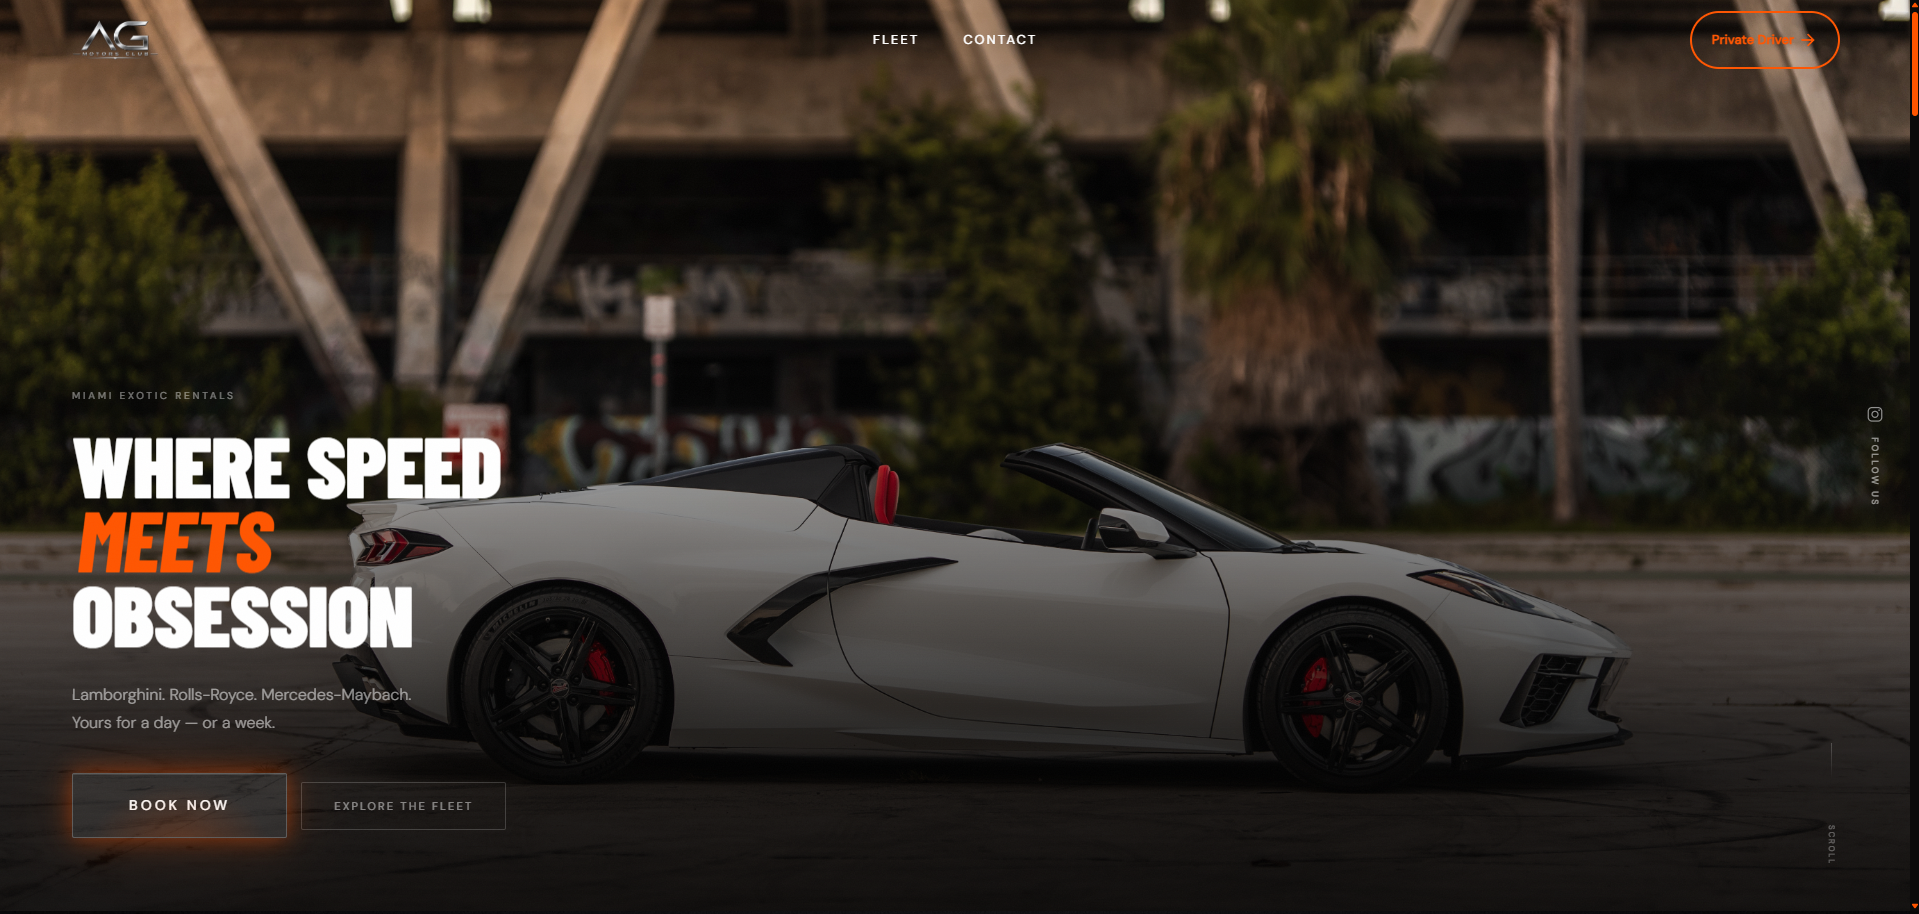
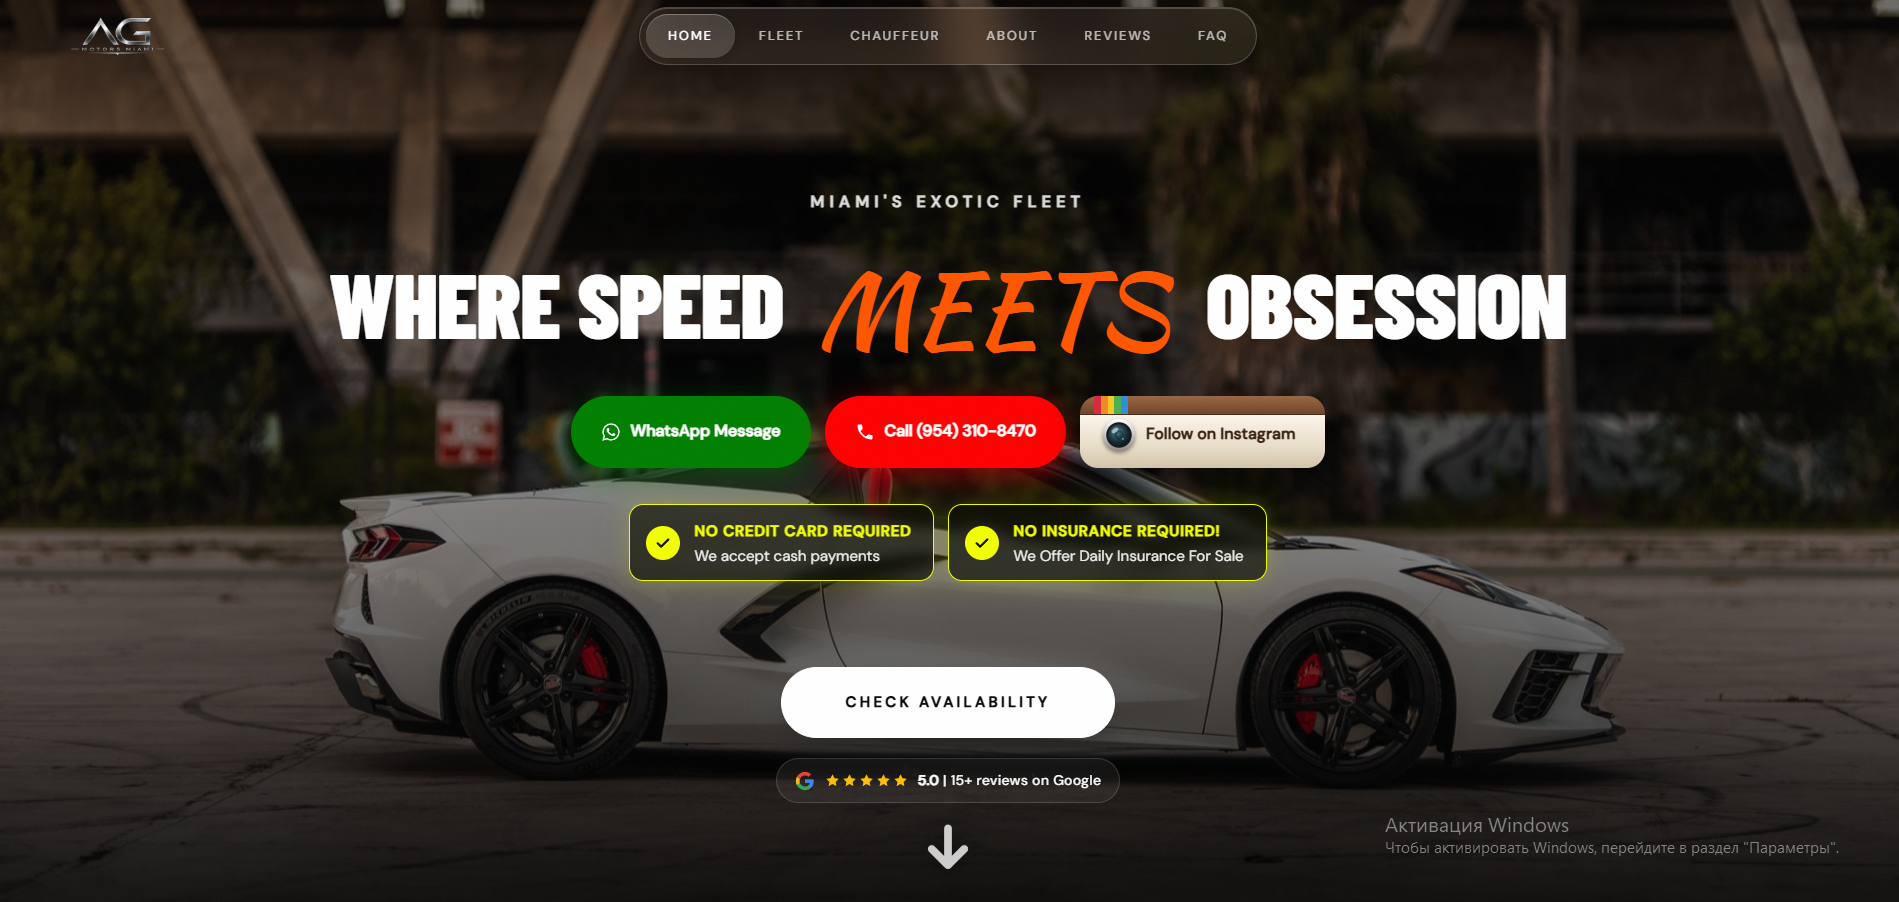
Project pages: iPad mockups with 3D shadow, standout visit-site button
Screenshots now sit in an iPad frame (img/projects/*-ipad.png) instead of a
cropped 4:3 browser window, so nothing gets cut off. The "See the Site Live"
button is a glowing gradient pill with a periodic shine and arrow badge,
full-width on mobile.

diff --git a/css/style.css b/css/style.css
@@ -925,8 +925,61 @@ h2 {
 .case-title { font-size: clamp(32px, 5.5vw, 56px); margin-bottom: 22px; }
 .case-desc  { font-size: 16px; color: var(--gray-text); line-height: 1.75; max-width: 520px; margin-bottom: 32px; }
 
-.case-cta { margin-bottom: 40px; }
-.case-cta svg { margin-left: 10px; }
+.case-cta {
+  position: relative; overflow: hidden; isolation: isolate;
+  display: inline-flex; align-items: center; gap: 14px;
+  margin-bottom: 40px; padding: 8px 8px 8px 24px;
+  border-radius: 100px;
+  font-family: 'Orbitron', 'Manrope', -apple-system, BlinkMacSystemFont, sans-serif;
+  font-size: 15px; font-weight: 700; text-transform: uppercase; letter-spacing: .05em;
+  color: #fff; text-decoration: none;
+  background: linear-gradient(135deg, #3b8ff5 0%, var(--blue) 45%, #0f4fb0 100%);
+  box-shadow:
+    0 0 0 1px rgba(255,255,255,.18) inset,
+    0 12px 32px -6px var(--blue-glow),
+    0 4px 12px rgba(29,121,233,.25);
+  animation: ctaPulse 2.6s ease-in-out infinite;
+  transition: transform var(--trans), box-shadow var(--trans);
+}
+/* Light sweep that runs across the button every few seconds */
+.case-cta::before {
+  content: ''; position: absolute; inset: 0; z-index: -1;
+  background: linear-gradient(110deg, transparent 30%, rgba(255,255,255,.35) 50%, transparent 70%);
+  transform: translateX(-120%);
+  animation: ctaShine 3.2s ease-in-out infinite;
+}
+.case-cta:hover {
+  animation: none;
+  transform: translateY(-3px);
+  box-shadow:
+    0 0 0 1px rgba(255,255,255,.25) inset,
+    0 18px 44px -6px rgba(29,121,233,.6),
+    0 6px 16px rgba(29,121,233,.3);
+}
+.case-cta:active { transform: translateY(-1px); }
+.case-cta:focus-visible { outline: 2px solid var(--blue); outline-offset: 4px; }
+
+.case-cta-icon {
+  flex-shrink: 0; width: 42px; height: 42px; border-radius: 50%;
+  display: flex; align-items: center; justify-content: center;
+  background: #fff; color: var(--blue);
+  transition: transform var(--trans);
+}
+.case-cta-icon svg { transition: transform var(--trans); }
+.case-cta:hover .case-cta-icon { transform: scale(1.06); }
+.case-cta:hover .case-cta-icon svg { transform: translate(2px, -2px); }
+
+@keyframes ctaPulse {
+  0%, 100% { box-shadow: 0 0 0 1px rgba(255,255,255,.18) inset, 0 12px 32px -6px var(--blue-glow), 0 0 0 0 rgba(29,121,233,.45); }
+  50%      { box-shadow: 0 0 0 1px rgba(255,255,255,.18) inset, 0 12px 32px -6px var(--blue-glow), 0 0 0 10px rgba(29,121,233,0); }
+}
+@keyframes ctaShine {
+  0%, 55% { transform: translateX(-120%); }
+  100%    { transform: translateX(120%); }
+}
+@media (prefers-reduced-motion: reduce) {
+  .case-cta, .case-cta::before { animation: none; }
+}
 
 .case-stats {
   display: grid; grid-template-columns: 1fr 1fr;
@@ -948,14 +1001,25 @@ h2 {
 }
 .case-stat-value { font-size: 18px; font-weight: 700; }
 
-.case-preview-frame {
-  background: #0a0a0a; border-radius: var(--radius); overflow: hidden;
-  box-shadow: var(--shadow-lg); position: sticky; top: calc(var(--header-h) + 40px);
+/* iPad mockup; layered drop-shadows + a floor shadow give the lifted 3D look */
+.case-device {
+  position: sticky; top: calc(var(--header-h) + 40px);
+  padding-bottom: 48px;
 }
-.case-preview-frame .p-browser { margin-bottom: 0; }
-.case-preview-img {
+.case-device--portrait { max-width: 420px; margin: 0 auto; width: 100%; }
+.case-device-img {
+  position: relative; z-index: 1;
   display: block; width: 100%; height: auto;
-  aspect-ratio: 4 / 3; object-fit: cover; object-position: top center;
+  filter:
+    drop-shadow(0 2px 2px rgba(0,0,0,.18))
+    drop-shadow(0 12px 18px rgba(0,0,0,.16))
+    drop-shadow(0 32px 48px rgba(0,0,0,.2));
+}
+.case-device::after {
+  content: ''; position: absolute; z-index: 0;
+  left: 8%; right: 8%; bottom: 22px; height: 36px;
+  background: radial-gradient(ellipse at center, rgba(0,0,0,.38) 0%, rgba(0,0,0,.12) 45%, transparent 72%);
+  filter: blur(6px);
 }
 
 /* ================================================================
@@ -1628,7 +1692,7 @@ footer {
   .contact-grid { grid-template-columns: 1fr; }
 
   .case-grid { grid-template-columns: 1fr; gap: 40px; }
-  .case-preview-frame { position: static; }
+  .case-device { position: relative; top: 0; }
 }
 
 /* ── Mobile ≤768px ──────────────────────────────────────────── */
@@ -1707,6 +1771,7 @@ footer {
   .about-cards    { grid-template-columns: 1fr 1fr; }
 
   .case-hero  { padding: calc(var(--header-h) + 32px) 0 70px; }
+  .case-cta   { display: flex; width: 100%; justify-content: space-between; font-size: 14px; padding-left: 20px; }
   .case-stat  { padding: 20px; }
   .faq-item   { padding: 0 20px; }
   .policy-hero { padding: calc(var(--header-h) + 32px) 0 10px; }

diff --git a/projects/aurique-by-diana.html b/projects/aurique-by-diana.html
@@ -30,7 +30,7 @@
   <link href="https://fonts.googleapis.com/css2?family=Sacramento&display=swap" rel="stylesheet" />
   <link href="https://fonts.googleapis.com/css2?family=JetBrains+Mono:wght@400;500;600;700&display=swap" rel="stylesheet" />
 
-  <link rel="stylesheet" href="../css/style.css?v=75" />
+  <link rel="stylesheet" href="../css/style.css?v=83" />
   <link rel="icon" href="../assets/favicon.ico" sizes="any" />
   <link rel="icon" type="image/png" sizes="32x32" href="../assets/favicon-32.png" />
   <link rel="icon" type="image/png" sizes="16x16" href="../assets/favicon-16.png" />
@@ -133,12 +133,14 @@
           Aurique by Diana — сайт студии маникюра и педикюра с удобной системой онлайн-записи на английском и испанском языках. David Marco взял идеи и видение клиента и воплотил их в индивидуальном цифровом опыте, продуманном под задачи и платформу, которые лучше всего подошли проекту.
         </p>
 
-        <a href="https://auriquebydiana.com/" target="_blank" rel="noopener" class="btn-outline case-cta">
+        <a href="https://auriquebydiana.com/" target="_blank" rel="noopener" class="case-cta">
           <span data-ru="Смотреть сайт" data-en="See the Site Live">See the Site Live</span>
-          <svg viewBox="0 0 24 24" width="15" height="15" fill="none" stroke="currentColor" stroke-width="2.2" stroke-linecap="round" stroke-linejoin="round" aria-hidden="true">
-            <line x1="7" y1="17" x2="17" y2="7"/>
-            <polyline points="7 7 17 7 17 17"/>
-          </svg>
+          <span class="case-cta-icon" aria-hidden="true">
+            <svg viewBox="0 0 24 24" width="16" height="16" fill="none" stroke="currentColor" stroke-width="2.4" stroke-linecap="round" stroke-linejoin="round">
+              <line x1="7" y1="17" x2="17" y2="7"/>
+              <polyline points="7 7 17 7 17 17"/>
+            </svg>
+          </span>
         </a>
 
         <div class="case-stats">
@@ -161,12 +163,8 @@
         </div>
       </div>
 
-      <div class="case-preview-frame">
-        <div class="p-browser">
-          <div class="p-dots"><span></span><span></span><span></span></div>
-          <div class="p-url">auriquebydiana.com</div>
-        </div>
-        <img src="../img/aurique-by-diana-preview.png" alt="Aurique by Diana" class="case-preview-img" />
+      <div class="case-device case-device--landscape">
+        <img src="../img/projects/aurique-by-diana-ipad.png" alt="Aurique by Diana on iPad" class="case-device-img" width="1596" height="1109" />
       </div>
 
     </div>

diff --git a/projects/velluto.html b/projects/velluto.html
@@ -30,7 +30,7 @@
   <link href="https://fonts.googleapis.com/css2?family=Sacramento&display=swap" rel="stylesheet" />
   <link href="https://fonts.googleapis.com/css2?family=JetBrains+Mono:wght@400;500;600;700&display=swap" rel="stylesheet" />
 
-  <link rel="stylesheet" href="../css/style.css?v=75" />
+  <link rel="stylesheet" href="../css/style.css?v=83" />
   <link rel="icon" href="../assets/favicon.ico" sizes="any" />
   <link rel="icon" type="image/png" sizes="32x32" href="../assets/favicon-32.png" />
   <link rel="icon" type="image/png" sizes="16x16" href="../assets/favicon-16.png" />
@@ -133,12 +133,14 @@
           Velluto — сайт бренда мороженого ручной работы с акцентом на живописные вкусы. David Marco взял идеи и видение клиента и воплотил их в индивидуальном цифровом опыте, продуманном под задачи и платформу, которые лучше всего подошли проекту.
         </p>
 
-        <a href="https://davamarco.github.io/velluto-icecream/index.html" target="_blank" rel="noopener" class="btn-outline case-cta">
+        <a href="https://davamarco.github.io/velluto-icecream/index.html" target="_blank" rel="noopener" class="case-cta">
           <span data-ru="Смотреть сайт" data-en="See the Site Live">See the Site Live</span>
-          <svg viewBox="0 0 24 24" width="15" height="15" fill="none" stroke="currentColor" stroke-width="2.2" stroke-linecap="round" stroke-linejoin="round" aria-hidden="true">
-            <line x1="7" y1="17" x2="17" y2="7"/>
-            <polyline points="7 7 17 7 17 17"/>
-          </svg>
+          <span class="case-cta-icon" aria-hidden="true">
+            <svg viewBox="0 0 24 24" width="16" height="16" fill="none" stroke="currentColor" stroke-width="2.4" stroke-linecap="round" stroke-linejoin="round">
+              <line x1="7" y1="17" x2="17" y2="7"/>
+              <polyline points="7 7 17 7 17 17"/>
+            </svg>
+          </span>
         </a>
 
         <div class="case-stats">
@@ -161,12 +163,8 @@
         </div>
       </div>
 
-      <div class="case-preview-frame">
-        <div class="p-browser">
-          <div class="p-dots"><span></span><span></span><span></span></div>
-          <div class="p-url">velluto-icecream.com</div>
-        </div>
-        <img src="../img/velluto-preview.png" alt="Velluto Ice Cream" class="case-preview-img" />
+      <div class="case-device case-device--landscape">
+        <img src="../img/projects/velluto-ipad.png" alt="Velluto Ice Cream on iPad" class="case-device-img" width="1596" height="1109" />
       </div>
 
     </div>

diff --git a/projects/resto-bistro.html b/projects/resto-bistro.html
@@ -30,7 +30,7 @@
   <link href="https://fonts.googleapis.com/css2?family=Sacramento&display=swap" rel="stylesheet" />
   <link href="https://fonts.googleapis.com/css2?family=JetBrains+Mono:wght@400;500;600;700&display=swap" rel="stylesheet" />
 
-  <link rel="stylesheet" href="../css/style.css?v=75" />
+  <link rel="stylesheet" href="../css/style.css?v=83" />
   <link rel="icon" href="../assets/favicon.ico" sizes="any" />
   <link rel="icon" type="image/png" sizes="32x32" href="../assets/favicon-32.png" />
   <link rel="icon" type="image/png" sizes="16x16" href="../assets/favicon-16.png" />
@@ -133,12 +133,14 @@
           Resto Bistro — сайт для ресторана с уютной атмосферой и фокусом на живом меню. David Marco взял идеи и видение клиента и воплотил их в индивидуальном цифровом опыте, продуманном под задачи и платформу, которые лучше всего подошли проекту.
         </p>
 
-        <a href="https://davamarco.github.io/restobistro/" target="_blank" rel="noopener" class="btn-outline case-cta">
+        <a href="https://davamarco.github.io/restobistro/" target="_blank" rel="noopener" class="case-cta">
           <span data-ru="Смотреть сайт" data-en="See the Site Live">See the Site Live</span>
-          <svg viewBox="0 0 24 24" width="15" height="15" fill="none" stroke="currentColor" stroke-width="2.2" stroke-linecap="round" stroke-linejoin="round" aria-hidden="true">
-            <line x1="7" y1="17" x2="17" y2="7"/>
-            <polyline points="7 7 17 7 17 17"/>
-          </svg>
+          <span class="case-cta-icon" aria-hidden="true">
+            <svg viewBox="0 0 24 24" width="16" height="16" fill="none" stroke="currentColor" stroke-width="2.4" stroke-linecap="round" stroke-linejoin="round">
+              <line x1="7" y1="17" x2="17" y2="7"/>
+              <polyline points="7 7 17 7 17 17"/>
+            </svg>
+          </span>
         </a>
 
         <div class="case-stats">
@@ -161,12 +163,8 @@
         </div>
       </div>
 
-      <div class="case-preview-frame">
-        <div class="p-browser">
-          <div class="p-dots"><span></span><span></span><span></span></div>
-          <div class="p-url">restobistro.com</div>
-        </div>
-        <img src="../img/resto-bistro-preview.png" alt="Resto Bistro" class="case-preview-img" />
+      <div class="case-device case-device--landscape">
+        <img src="../img/projects/resto-bistro-ipad.png" alt="Resto Bistro on iPad" class="case-device-img" width="1596" height="1109" />
       </div>
 
     </div>

diff --git a/projects/frostline.html b/projects/frostline.html
@@ -30,7 +30,7 @@
   <link href="https://fonts.googleapis.com/css2?family=Sacramento&display=swap" rel="stylesheet" />
   <link href="https://fonts.googleapis.com/css2?family=JetBrains+Mono:wght@400;500;600;700&display=swap" rel="stylesheet" />
 
-  <link rel="stylesheet" href="../css/style.css?v=75" />
+  <link rel="stylesheet" href="../css/style.css?v=83" />
   <link rel="icon" href="../assets/favicon.ico" sizes="any" />
   <link rel="icon" type="image/png" sizes="32x32" href="../assets/favicon-32.png" />
   <link rel="icon" type="image/png" sizes="16x16" href="../assets/favicon-16.png" />
@@ -133,12 +133,14 @@
           Frostline — сайт горнолыжного курорта с акцентом на зимние приключения. David Marco взял идеи и видение клиента и воплотил их в индивидуальном цифровом опыте, продуманном под задачи и платформу, которые лучше всего подошли проекту.
         </p>
 
-        <a href="https://davamarco.github.io/frostline/index.html" target="_blank" rel="noopener" class="btn-outline case-cta">
+        <a href="https://davamarco.github.io/frostline/index.html" target="_blank" rel="noopener" class="case-cta">
           <span data-ru="Смотреть сайт" data-en="See the Site Live">See the Site Live</span>
-          <svg viewBox="0 0 24 24" width="15" height="15" fill="none" stroke="currentColor" stroke-width="2.2" stroke-linecap="round" stroke-linejoin="round" aria-hidden="true">
-            <line x1="7" y1="17" x2="17" y2="7"/>
-            <polyline points="7 7 17 7 17 17"/>
-          </svg>
+          <span class="case-cta-icon" aria-hidden="true">
+            <svg viewBox="0 0 24 24" width="16" height="16" fill="none" stroke="currentColor" stroke-width="2.4" stroke-linecap="round" stroke-linejoin="round">
+              <line x1="7" y1="17" x2="17" y2="7"/>
+              <polyline points="7 7 17 7 17 17"/>
+            </svg>
+          </span>
         </a>
 
         <div class="case-stats">
@@ -161,12 +163,8 @@
         </div>
       </div>
 
-      <div class="case-preview-frame">
-        <div class="p-browser">
-          <div class="p-dots"><span></span><span></span><span></span></div>
-          <div class="p-url">frostline.co</div>
-        </div>
-        <img src="../img/frostline-preview.jpg" alt="Frostline" class="case-preview-img" />
+      <div class="case-device case-device--landscape">
+        <img src="../img/projects/frostline-ipad.png" alt="Frostline on iPad" class="case-device-img" width="1596" height="1109" />
       </div>
 
     </div>

diff --git a/projects/ag-motors-miami.html b/projects/ag-motors-miami.html
@@ -30,7 +30,7 @@
   <link href="https://fonts.googleapis.com/css2?family=Sacramento&display=swap" rel="stylesheet" />
   <link href="https://fonts.googleapis.com/css2?family=JetBrains+Mono:wght@400;500;600;700&display=swap" rel="stylesheet" />
 
-  <link rel="stylesheet" href="../css/style.css?v=75" />
+  <link rel="stylesheet" href="../css/style.css?v=83" />
   <link rel="icon" href="../assets/favicon.ico" sizes="any" />
   <link rel="icon" type="image/png" sizes="32x32" href="../assets/favicon-32.png" />
   <link rel="icon" type="image/png" sizes="16x16" href="../assets/favicon-16.png" />
@@ -133,12 +133,14 @@
           AG Motors Miami — сайт компании по аренде премиальных автомобилей в Майами. David Marco взял идеи и видение клиента и воплотил их в индивидуальном цифровом опыте, продуманном под задачи и платформу, которые лучше всего подошли проекту.
         </p>
 
-        <a href="https://agmotorsmiami.com/" target="_blank" rel="noopener" class="btn-outline case-cta">
+        <a href="https://agmotorsmiami.com/" target="_blank" rel="noopener" class="case-cta">
           <span data-ru="Смотреть сайт" data-en="See the Site Live">See the Site Live</span>
-          <svg viewBox="0 0 24 24" width="15" height="15" fill="none" stroke="currentColor" stroke-width="2.2" stroke-linecap="round" stroke-linejoin="round" aria-hidden="true">
-            <line x1="7" y1="17" x2="17" y2="7"/>
-            <polyline points="7 7 17 7 17 17"/>
-          </svg>
+          <span class="case-cta-icon" aria-hidden="true">
+            <svg viewBox="0 0 24 24" width="16" height="16" fill="none" stroke="currentColor" stroke-width="2.4" stroke-linecap="round" stroke-linejoin="round">
+              <line x1="7" y1="17" x2="17" y2="7"/>
+              <polyline points="7 7 17 7 17 17"/>
+            </svg>
+          </span>
         </a>
 
         <div class="case-stats">
@@ -161,12 +163,8 @@
         </div>
       </div>
 
-      <div class="case-preview-frame">
-        <div class="p-browser">
-          <div class="p-dots"><span></span><span></span><span></span></div>
-          <div class="p-url">agmotorsmiami.com</div>
-        </div>
-        <img src="../img/rentcar-preview.png" alt="AG Motors Miami" class="case-preview-img" />
+      <div class="case-device case-device--portrait">
+        <img src="../img/projects/ag-motors-miami-ipad.png" alt="AG Motors Miami on iPad" class="case-device-img" width="1109" height="1596" />
       </div>
 
     </div>

diff --git a/privacy-policy.html b/privacy-policy.html
@@ -31,7 +31,7 @@
   <link href="https://fonts.googleapis.com/css2?family=Sacramento&display=swap" rel="stylesheet" />
   <link href="https://fonts.googleapis.com/css2?family=JetBrains+Mono:wght@400;500;600;700&display=swap" rel="stylesheet" />
 
-  <link rel="stylesheet" href="css/style.css?v=75" />
+  <link rel="stylesheet" href="css/style.css?v=83" />
   <link rel="icon" href="assets/favicon.ico" sizes="any" />
   <link rel="icon" type="image/png" sizes="32x32" href="assets/favicon-32.png" />
   <link rel="icon" type="image/png" sizes="16x16" href="assets/favicon-16.png" />

diff --git a/terms-conditions.html b/terms-conditions.html
@@ -31,7 +31,7 @@
   <link href="https://fonts.googleapis.com/css2?family=Sacramento&display=swap" rel="stylesheet" />
   <link href="https://fonts.googleapis.com/css2?family=JetBrains+Mono:wght@400;500;600;700&display=swap" rel="stylesheet" />
 
-  <link rel="stylesheet" href="css/style.css?v=75" />
+  <link rel="stylesheet" href="css/style.css?v=83" />
   <link rel="icon" href="assets/favicon.ico" sizes="any" />
   <link rel="icon" type="image/png" sizes="32x32" href="assets/favicon-32.png" />
   <link rel="icon" type="image/png" sizes="16x16" href="assets/favicon-16.png" />

diff --git a/index.html b/index.html
@@ -34,7 +34,7 @@
   <link href="https://fonts.googleapis.com/css2?family=JetBrains+Mono:wght@400;500;600;700&display=swap"
     rel="stylesheet" />
 
-  <link rel="stylesheet" href="css/style.css?v=80" />
+  <link rel="stylesheet" href="css/style.css?v=83" />
   <link rel="icon" href="assets/favicon.ico" sizes="any" />
   <link rel="icon" type="image/png" sizes="32x32" href="assets/favicon-32.png" />
   <link rel="icon" type="image/png" sizes="16x16" href="assets/favicon-16.png" />
